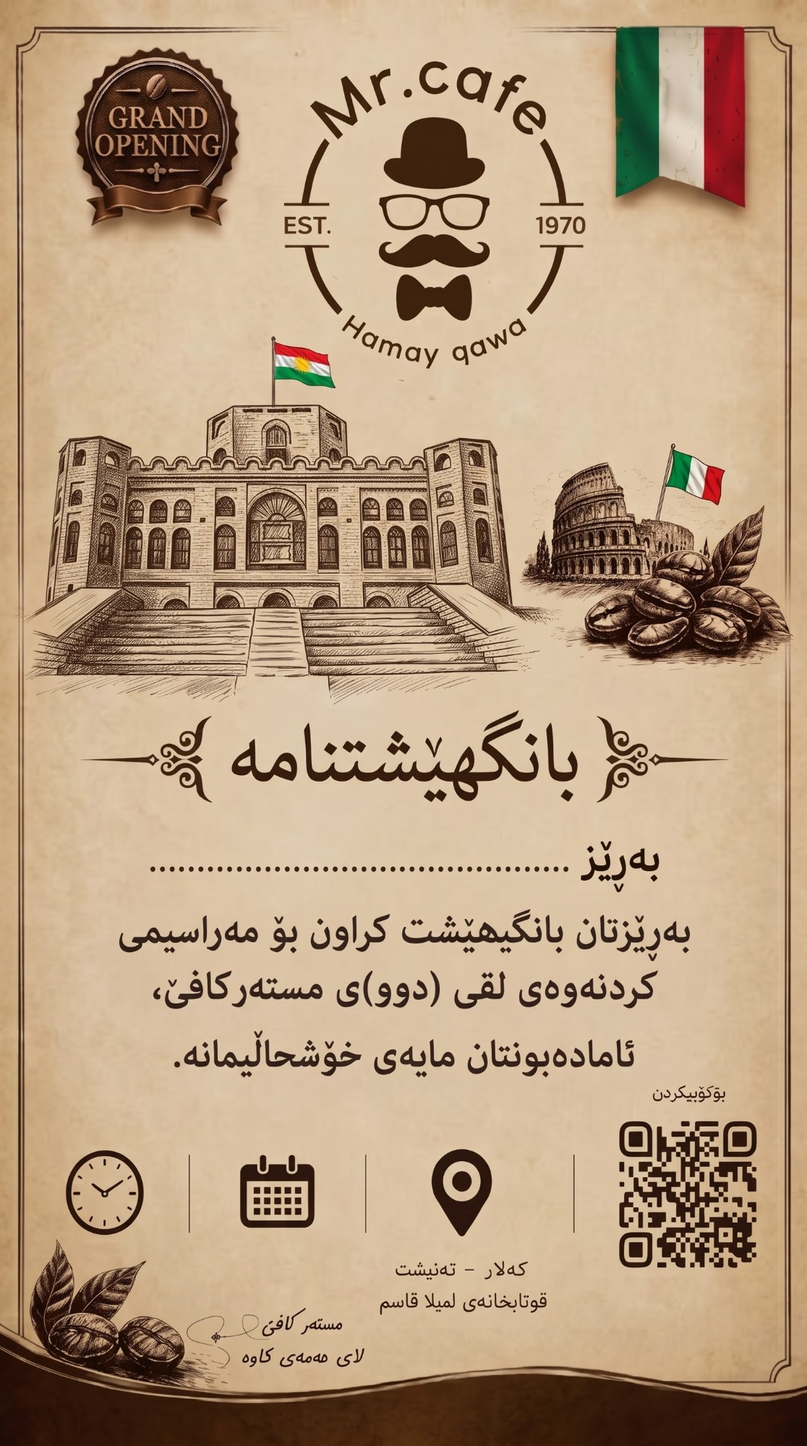
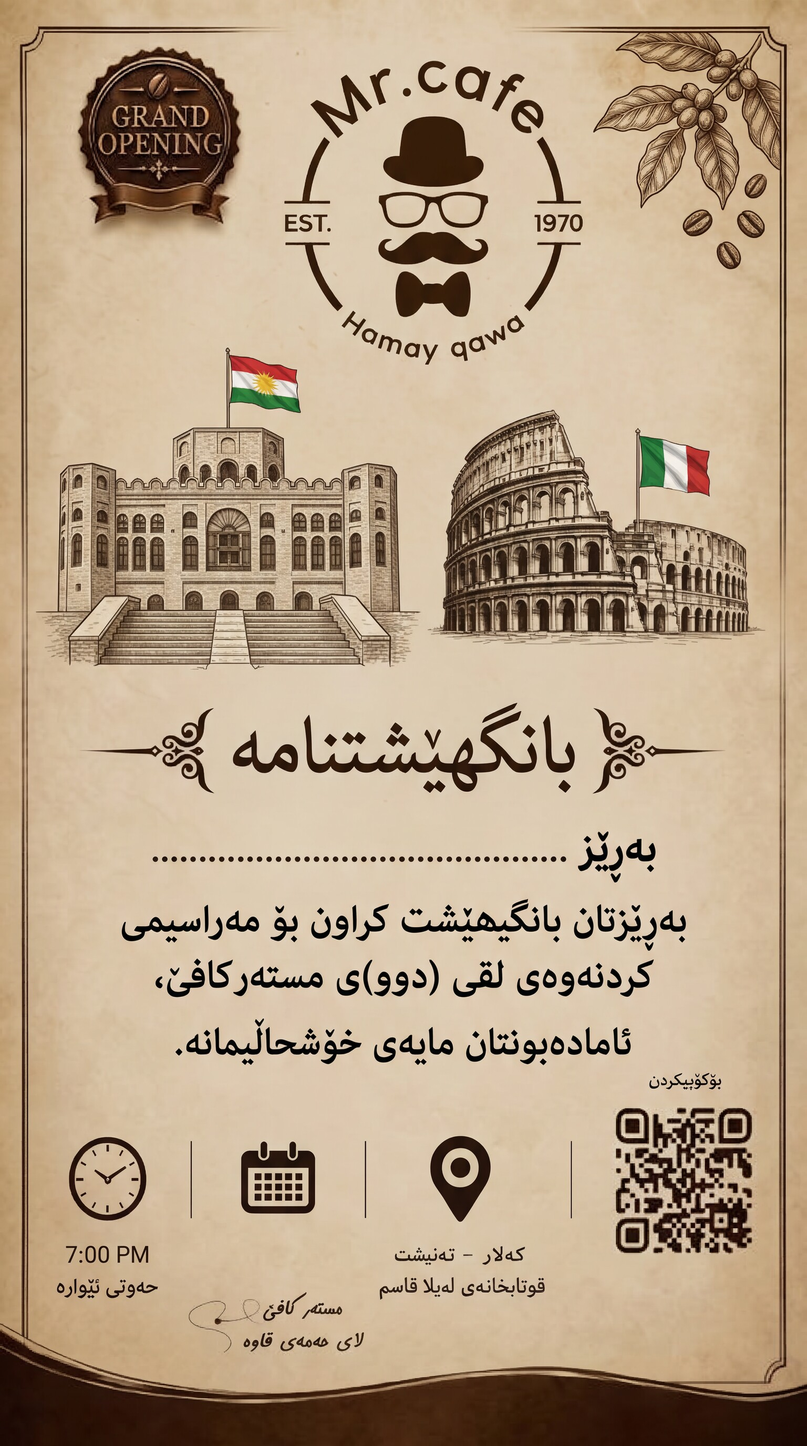
feat: updated invitation backgrounds with event time
Replace both template backgrounds with the new artwork (castle with the
Kurdish flag, Colosseum with the Italian flag, 7:00 PM event time) and
fix the footer text the previous artwork got wrong.

Both images are resized to 1536x2752 so the dotted name line sits at the
same spot on each card, which makes the template-2 baseline offset
unnecessary. Image URLs get a ?v=3 suffix so browsers that cached the
old backgrounds (jpg max-age is 7 days) load the new ones.

diff --git a/app.js b/app.js
@@ -19,7 +19,7 @@
   /* ================= ١) ڕێکخستنی بنەڕەت (لێرە بگۆڕە) ================= */
 
   const CFG = {
-    imageSrc: "new_invite_bg.jpg", // وێنەی باکگراوند لە تەنیشت index.html
+    imageSrc: "new_invite_bg.jpg?v=3", // وێنەی باکگراوند لە تەنیشت index.html
 
     // شوێنی ناو (ڕێژە بۆ قەبارەی وێنە — ٠ … ١)
     centerX: 0.445,     // ناوەندی ئاسۆیی (ناوەندی خاڵەکان)
@@ -40,16 +40,14 @@
   const TEMPLATES = {
     "1": {
       // وێنەیەک کە دەقی یەکەم لەسەر چاپکراوە
-      image: "new_invite_bg.jpg",
+      image: "new_invite_bg.jpg?v=3",
       body:
         "خۆشحاڵ دەبین بە ئامادەبوونی بەڕێزتان لە مەراسیمی کردنەوەی لقی (دوو)ی مستەر کافێ.\n" +
         "هاتنتان مایەی خۆشحاڵیمانە.",
     },
     "2": {
       // وێنەیەک کە دەقی دووەم لەسەر چاپکراوە
-      image: "new_invite_bg_2.jpg",
-      // خاڵەکانی «بەڕێز» لەم وێنەیەدا ١٩px نزمترن (y ≈ ١٦٥٠ لەجیاتی ١٦٣١)
-      baselineOffset: 19 / 2752,
+      image: "new_invite_bg_2.jpg?v=3",
       body:
         "بەڕێزتان بانگێشت کراون بۆ مەراسیمی کردنەوەی لقی (دوو)ی مستەر کافێ،\n" +
         "ئامادەبوونتان مایەی خۆشحاڵیمانە.",
